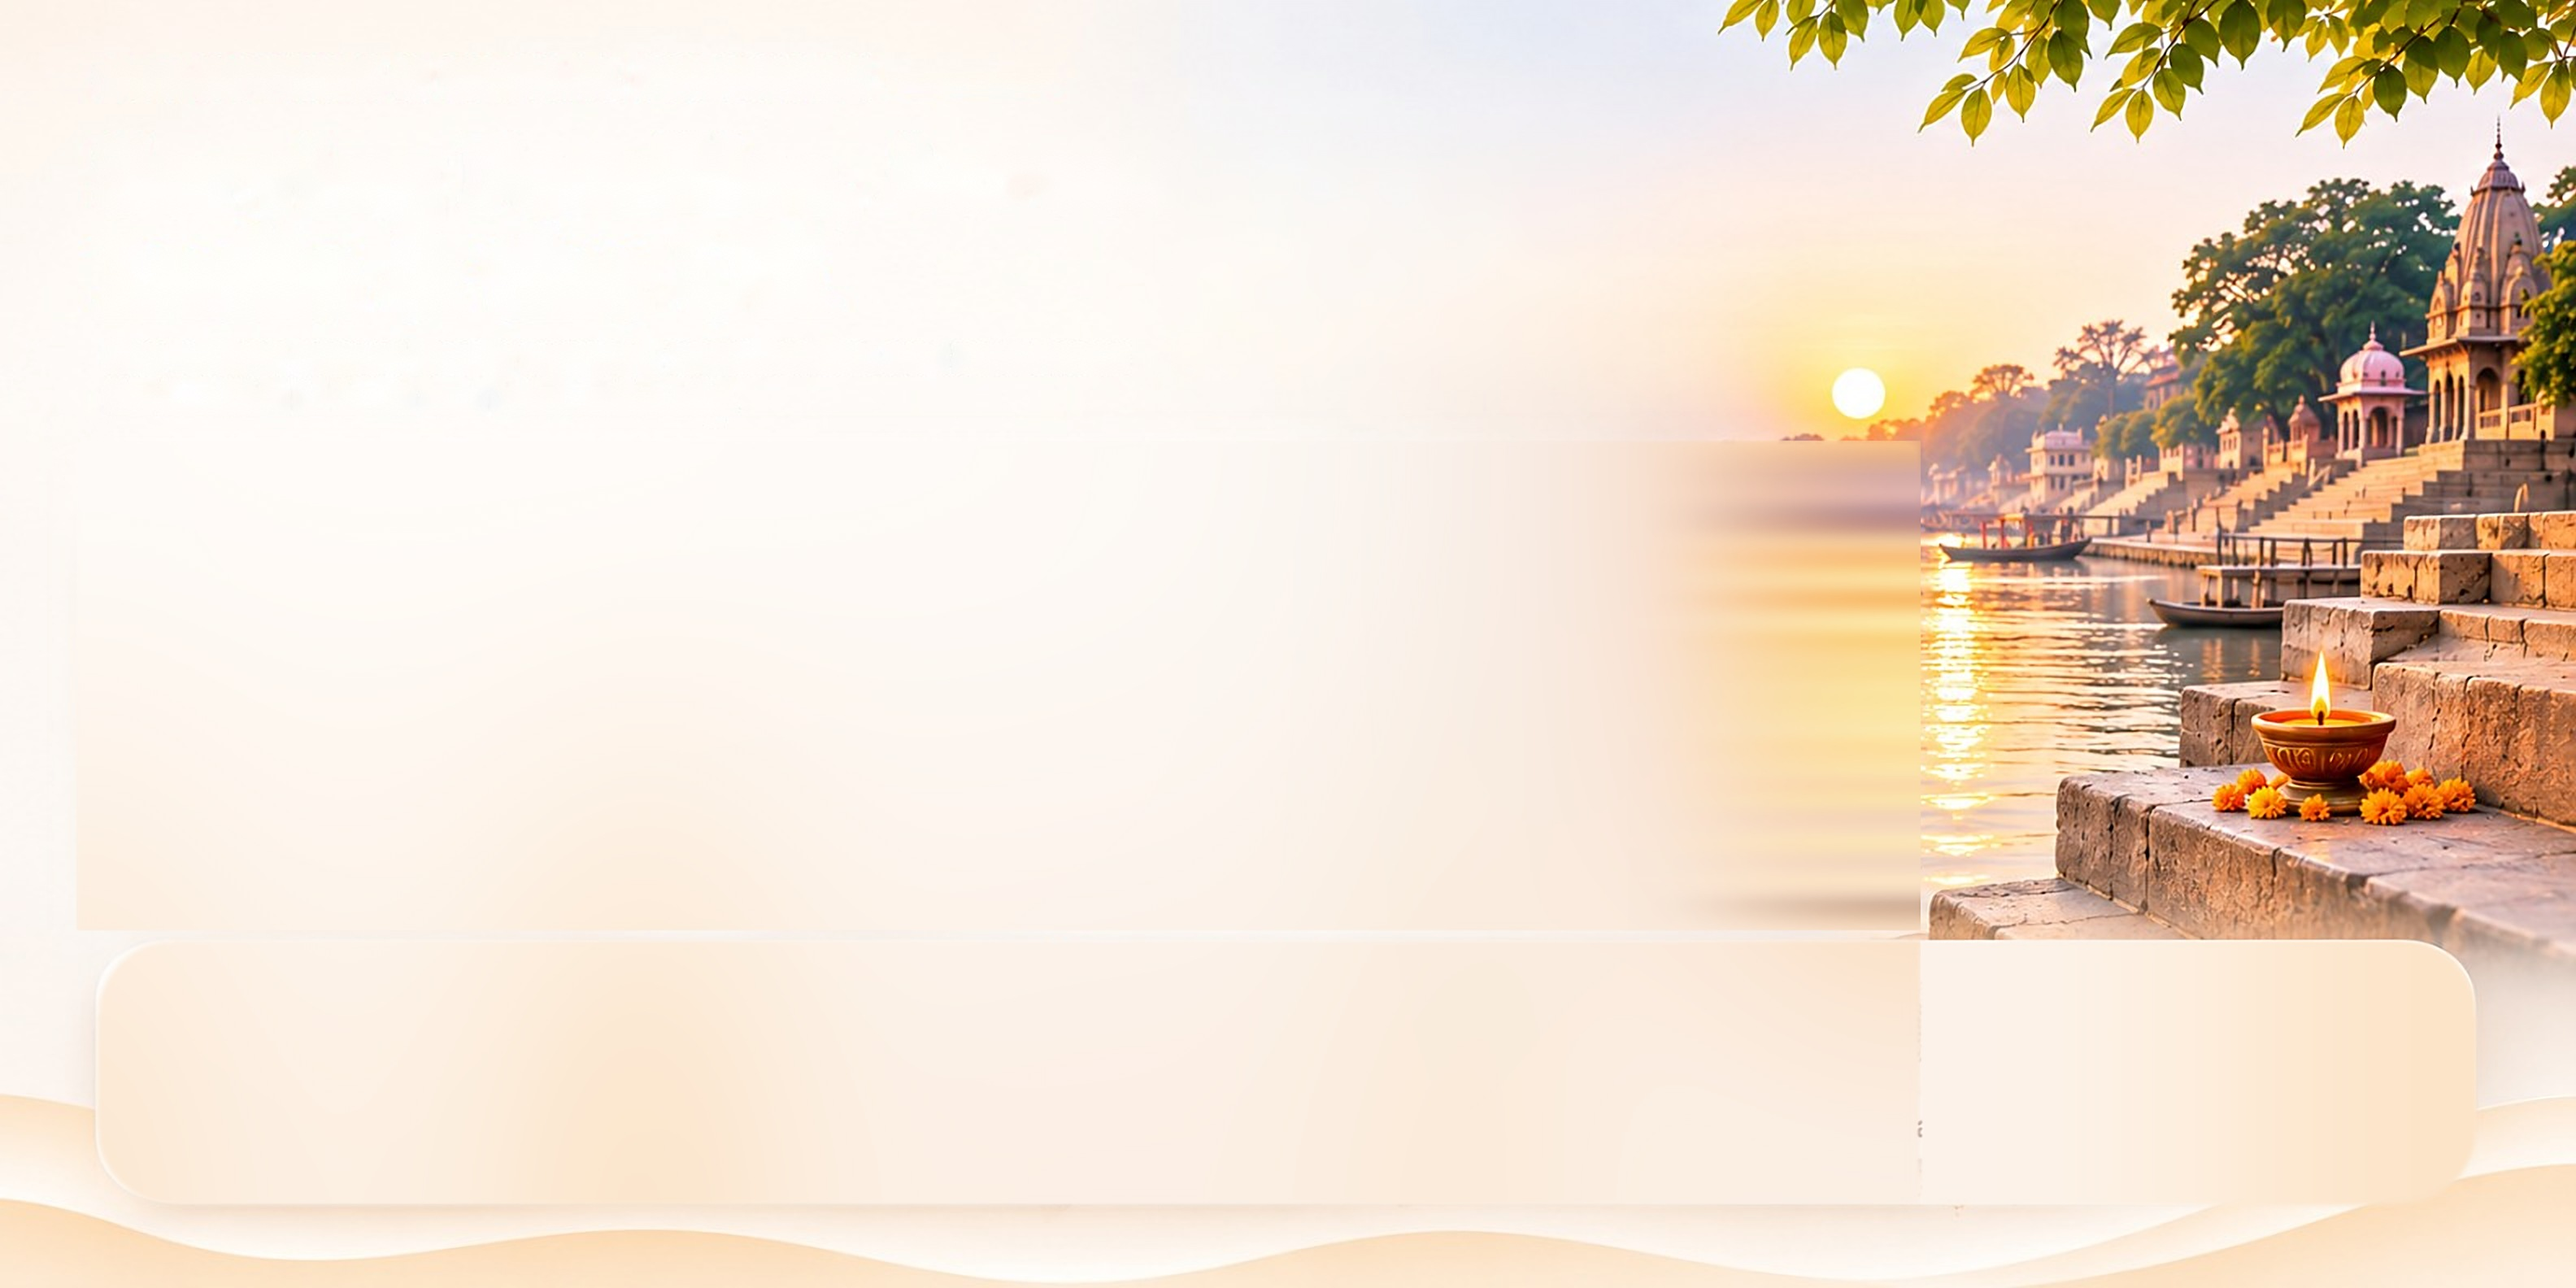
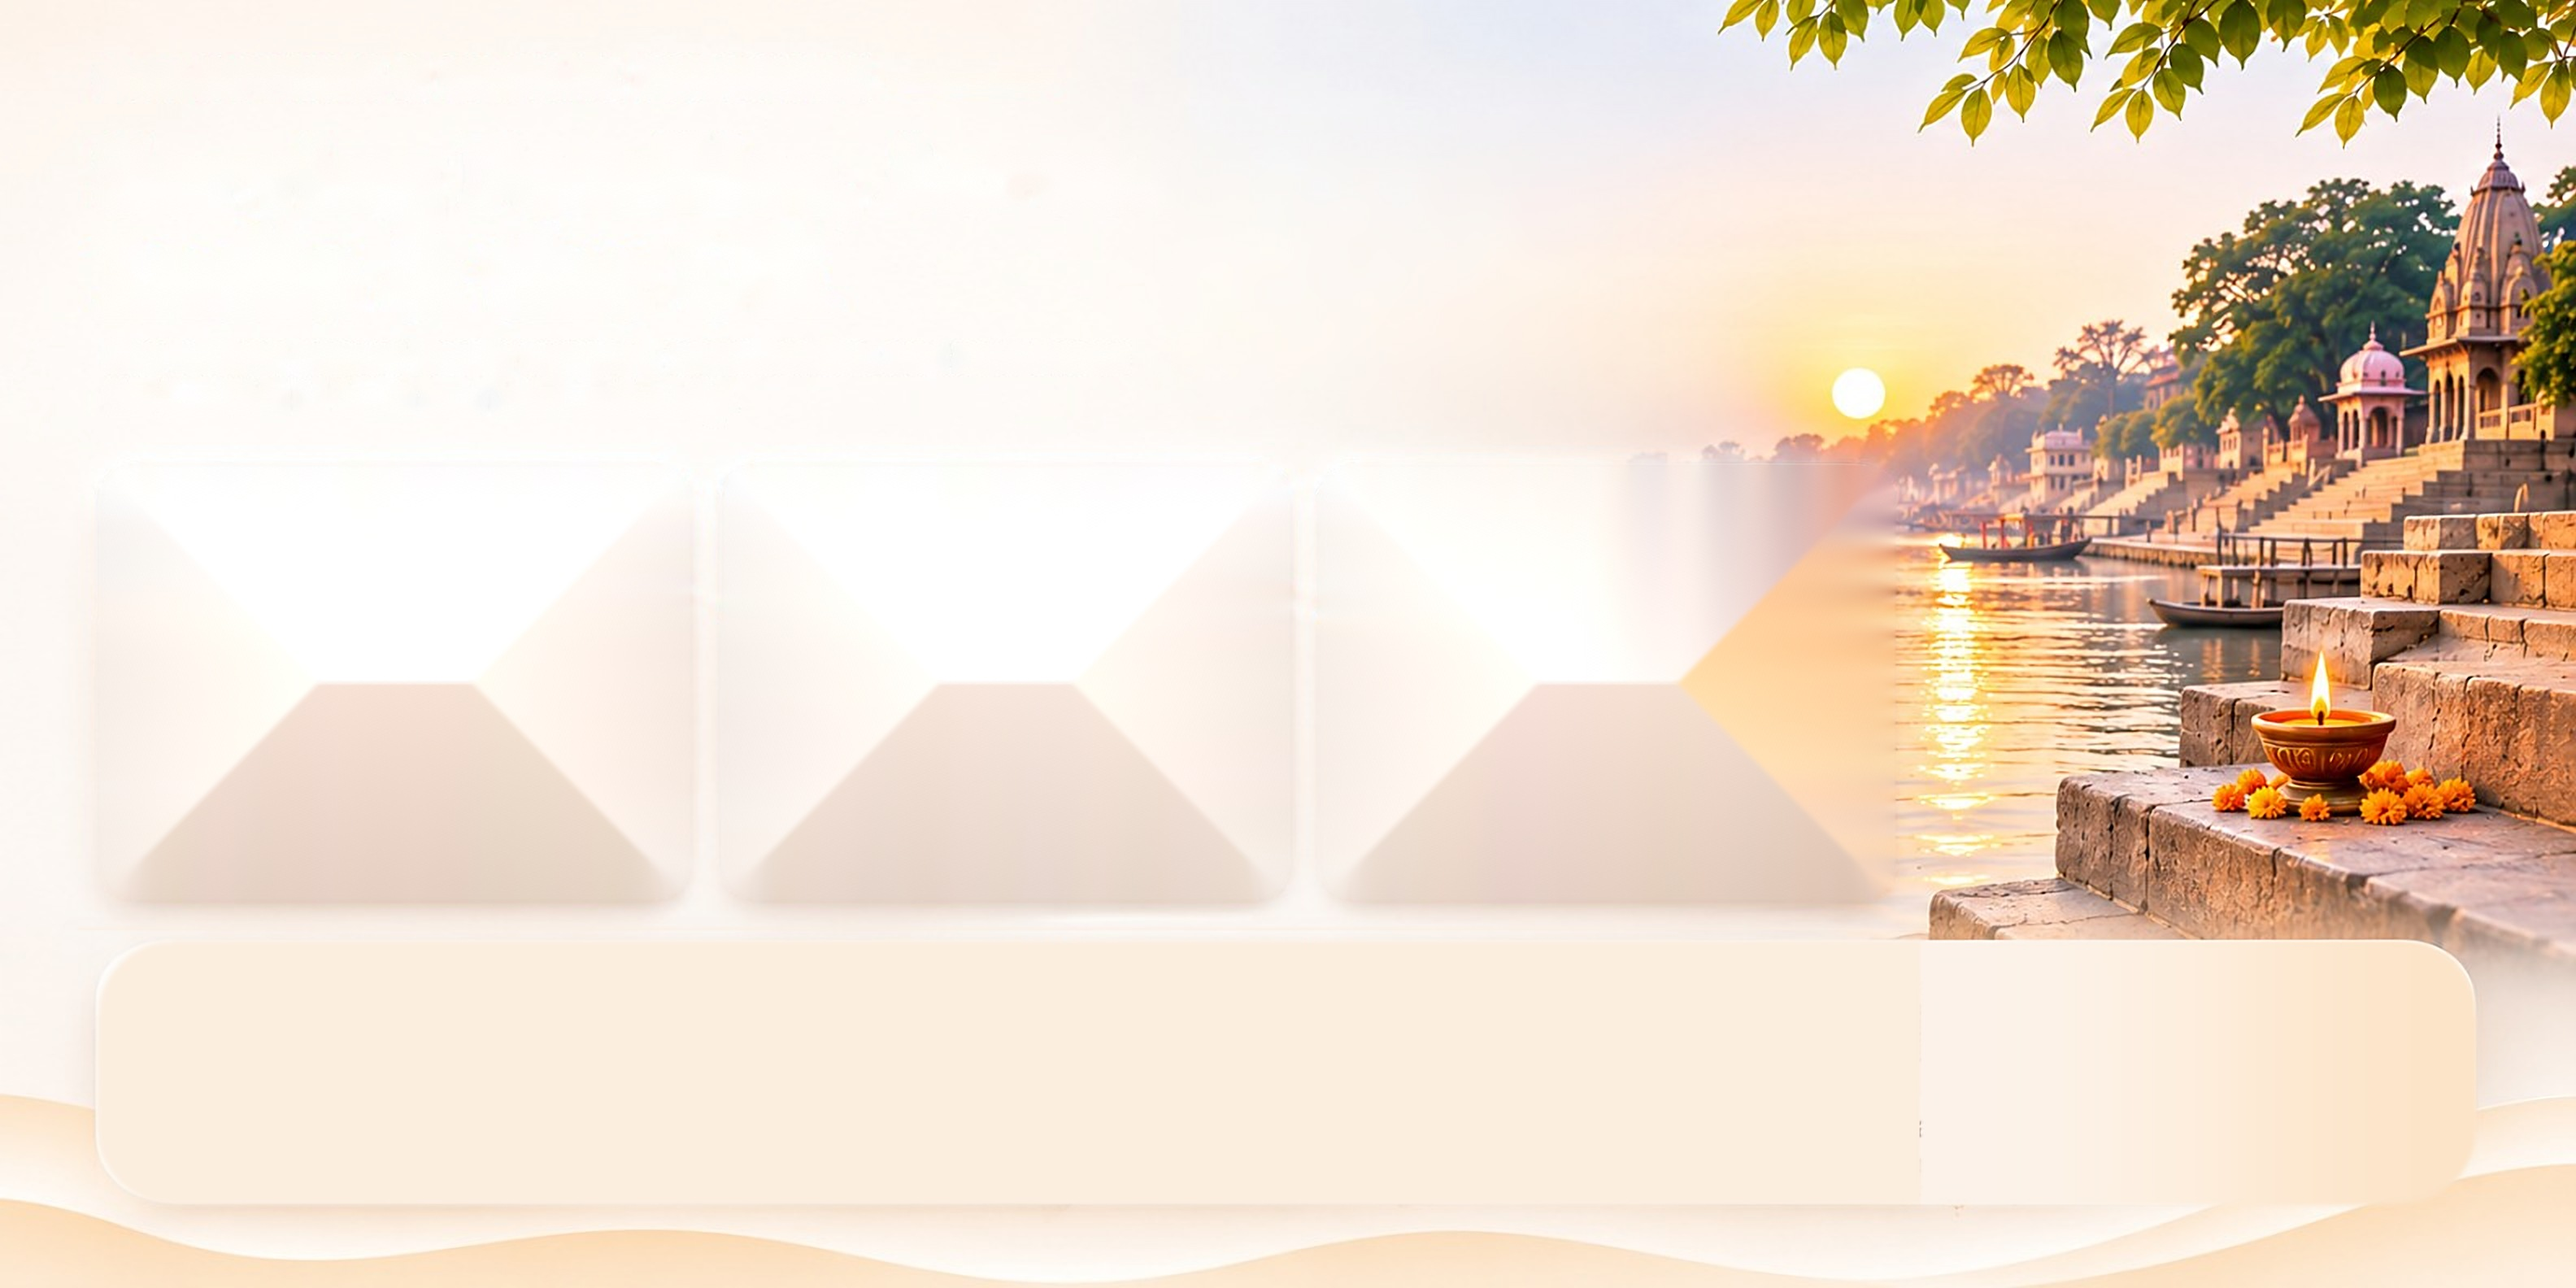
aman

diff --git a/app/globals.css b/app/globals.css
@@ -687,7 +687,7 @@ body {
   }
 
   .hero-heading-1366 {
-    font-size: 42px !important;
+    font-size: 39px !important;
     min-height: auto !important;
     line-height: 1.05 !important;
   }
@@ -777,7 +777,7 @@ body {
     width: 220px !important;
   }
   .hero-heading-1366 {
-    font-size: 36px !important;
+    font-size: 33px !important;
     min-height: auto !important;
     line-height: 1.04 !important;
   }
@@ -825,7 +825,7 @@ body {
   letter-spacing: -0.01em !important;
   white-space: normal !important;
 }
-.landing-typo .hero-heading-1366 { font-weight: 600 !important; }
+.landing-typo .hero-heading-1366 { font-weight: 500 !important; }
 /* small label above each section heading ("WHO WE HELP", "OUR SEWA", ...) */
 .landing-typo .lt-eyebrow {
   font-size: clamp(16px, 1.45vw, 21px) !important;
@@ -904,3 +904,36 @@ body:not(:has(.landing-typo)) :is(main, section) :is(h1, h2).tt-compact:not(foot
   color: #50504B !important;
 }
 .tt-eyebrow { text-transform: uppercase !important; }
+
+
+/* Home footer: slightly duller (a little less bright, a little less saturated) so it does not glare against the page.
+   Scoped to pages that contain the landing wrapper (.landing-typo), i.e. the home page only. */
+body:has(.landing-typo) footer > :not(:first-child),
+body:has(.landing-typo) footer > :first-child > * {
+  filter: brightness(0.9) saturate(0.9);
+}
+/* The light action band on top of the footer ("Stand with dignity..."): its own background and border are NOT filtered,
+   so they keep the original cream (#FDF6EA / #F5E6CC). Only the content inside it (text + buttons) is dulled like the rest. */
+
+/* Home footer, "Our Global Presence" panel: duller photo + a light dark shadow.
+   ::before is a dark tint over the panel photo, below the text (the text rows are z-10). */
+body:has(.landing-typo) .footer-presence {
+  box-shadow: 0 12px 30px rgba(0, 0, 0, 0.55), inset 0 0 44px rgba(0, 0, 0, 0.5);
+}
+body:has(.landing-typo) .footer-presence::before {
+  content: "";
+  position: absolute;
+  inset: 0;
+  z-index: 0;
+  pointer-events: none;
+  background: linear-gradient(90deg, rgba(0, 0, 0, 0.5) 0%, rgba(0, 0, 0, 0.34) 55%, rgba(0, 0, 0, 0.2) 100%);
+}
+
+/* FAQ "Help & Information" pill: the pill has a fixed width that scales with --u, so its label is sized from --u too
+   (smaller than the other section labels) and always stays on one line inside the pill. */
+.landing-typo .lt-eyebrow.faq-pill,
+.tt-eyebrow.faq-pill {
+  font-size: calc(var(--u) * 1.12) !important;
+  letter-spacing: 0.03em !important;
+  white-space: nowrap !important;
+}

diff --git a/components/layout/Footer/FooterNew.tsx b/components/layout/Footer/FooterNew.tsx
@@ -423,7 +423,7 @@ export default function FooterNew() {
         className="relative isolate overflow-hidden bg-[#050706] text-white"
       >
         {/* Slim action band attached directly above the footer content. */}
-        <div className="relative z-30 border-b border-[#F5E6CC] bg-[#FDF6EA] px-4 py-2 sm:px-6">
+        <div className="relative z-30 border-b border-[#F5E6CC] bg-[#FDF6EA] px-4 py-2 sm:px-6 md:px-[clamp(24px,calc((100vw-960px)/2),64px)]">
           <div className="mx-auto flex min-h-[46px] w-full max-w-[1600px] flex-col items-center justify-between gap-2.5 sm:flex-row">
             <div className="flex min-w-0 items-center gap-3 text-center text-[14px] font-semibold text-[#1F1911] sm:text-left sm:text-[14.5px]">
               {/* Golden outlined lotus icon */}
@@ -683,7 +683,7 @@ export default function FooterNew() {
               <div className="footer-col relative flex flex-col justify-start sm:col-span-2 lg:col-span-2 xl:col-span-1 xl:pl-2 xl:-mt-0.5 sm:-mt-0.5">
                 <div
                   ref={presenceRef}
-                  className="relative w-full max-w-[660px] xl:max-w-full overflow-hidden rounded-[16px] border border-[#D9A33A]/60 pl-2.5 pr-2 py-2.5 sm:pl-3 sm:pr-3 sm:py-3 bg-cover bg-right bg-no-repeat"
+                  className="footer-presence relative w-full max-w-[660px] xl:max-w-full overflow-hidden rounded-[16px] border border-[#D9A33A]/60 pl-2.5 pr-2 py-2.5 sm:pl-3 sm:pr-3 sm:py-3 bg-cover bg-right bg-no-repeat"
                   style={{
                     backgroundImage: presenceSeen ? "url('/footer/image.webp')" : undefined,
                     backgroundColor: "#060908",

diff --git a/components/sections/FAQ/FAQ.tsx b/components/sections/FAQ/FAQ.tsx
@@ -115,7 +115,7 @@ export default function FAQSection() {
         <div className="mx-auto text-center lg:ml-[calc(var(--u)*26)] lg:mr-0 lg:w-[calc(var(--u)*54.8)] lg:pt-[calc(var(--u)*2.06)]">
           <div className="flex items-center justify-center gap-[calc(var(--u)*0.9)] lg:-translate-x-[calc(var(--u)*0.6)]">
             <span className={`hidden h-[2px] w-[calc(var(--u)*4.25)] sm:block ${GOLD_LINE} rotate-180`} />
-            <span className="lt-eyebrow inline-flex h-[calc(var(--u)*2.3)] min-h-[32px] items-center rounded-full border-[1.5px] border-[#DDAB62] bg-[#FFF7EC]/75 px-[calc(var(--u)*1.5)] font-sans text-[calc(var(--u)*1.05)] font-bold uppercase tracking-[0.03em] text-[#9C5306] lg:min-h-0 lg:w-[calc(var(--u)*15.5)] lg:justify-center lg:px-0">
+            <span className="lt-eyebrow faq-pill inline-flex h-[calc(var(--u)*2.3)] min-h-[32px] items-center rounded-full border-[1.5px] border-[#DDAB62] bg-[#FFF7EC]/75 px-[calc(var(--u)*1.5)] font-sans text-[calc(var(--u)*1.05)] font-bold uppercase tracking-[0.03em] text-[#9C5306] lg:min-h-0 lg:w-[calc(var(--u)*15.5)] lg:justify-center lg:px-0">
               Help &amp; Information
             </span>
             <span className={`hidden h-[2px] w-[calc(var(--u)*4.25)] sm:block ${GOLD_LINE}`} />

diff --git a/components/page-features/contact/ContactOfficesStage.tsx b/components/page-features/contact/ContactOfficesStage.tsx
@@ -123,7 +123,8 @@ export default function ContactOfficesStage(): ReactNode {
             <div
               style={box(c.x, CARD_Y, c.w, CARD_H, {
                 borderRadius: px(18),
-                boxShadow: "0 8px 14px -4px rgba(150,90,50,.26), 0 0 9px rgba(150,90,50,.10)",
+                // the soft shadow around the cards is part of scene.jpg (same as the reference); only the thin white outline is CSS
+                boxShadow: `0 0 0 ${px(1.6)} rgba(255,255,255,.95)`,
                 background: "#FDFCFA",
               })}
             />

diff --git a/components/sections/hero/Hero.tsx b/components/sections/hero/Hero.tsx
@@ -661,7 +661,7 @@ export default function Hero() {
               </div>
 
               <h1
-                className="hero-heading-1366 text-[36px] leading-[0.98] sm:text-[44px] md:text-[48px] lg:min-h-[112px] lg:text-[54px] xl:min-h-[120px] xl:text-[58px]"
+                className="hero-heading-1366 text-[33px] leading-[0.98] sm:text-[40px] md:text-[44px] lg:min-h-[102px] lg:text-[50px] xl:min-h-[110px] xl:text-[53px]"
                 style={{
                   fontWeight: 500,
                 }}

diff --git a/components/layout/navbar/Navbar.tsx b/components/layout/navbar/Navbar.tsx
@@ -279,7 +279,7 @@ export default function Navbar() {
       >
         <div className="max-w-7xl mx-auto px-0">
           <div className="flex items-center h-[68px] relative">
-            <div className="flex-shrink-0 pl-6 pr-4 py-1">
+            <div className="flex-shrink-0 pl-2 min-[1296px]:pl-6 pr-4 py-1">
               <Link
                 href="/"
                 onClick={() => {
